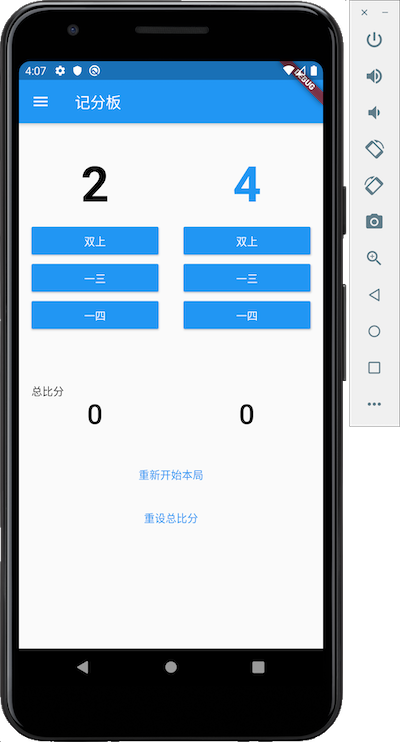
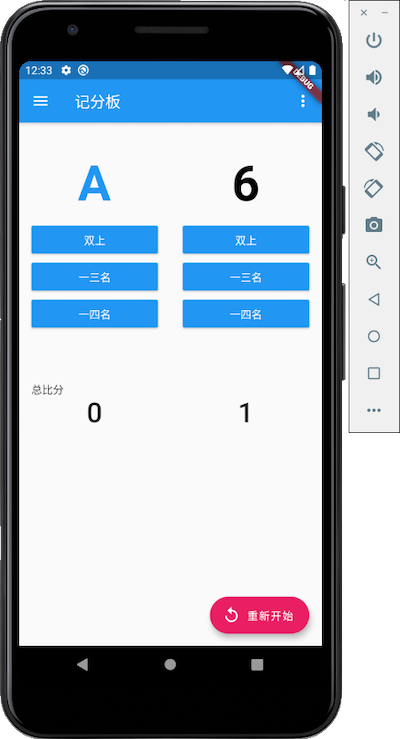
refine UI

diff --git a/lib/scoreboard_page.dart b/lib/scoreboard_page.dart
@@ -20,6 +20,10 @@ class _ScoreboardState extends State<ScoreboardPage> {
   final GlobalKey<_ScoreboardViewState> _rightScoreboardState =
       GlobalKey<_ScoreboardViewState>();
 
+  static const String _newGameButtonTitle = '新开局';
+  static const String _restartGameButtonTitle = '重新开始';
+  static const String _resetGameButtonTitle = '重设总比分';
+
   void updateScore() {
     setState(() {
       _leftScore = GDGame().getTotalScore(GameSide.left);
@@ -57,7 +61,7 @@ class _ScoreboardState extends State<ScoreboardPage> {
               ),
               FlatButton(
                 child: Text(actionTitle),
-                textColor: Colors.red,
+                textColor: Theme.of(context).errorColor,
                 onPressed: () {
                   action();
                   Navigator.of(context).pop();
@@ -68,105 +72,164 @@ class _ScoreboardState extends State<ScoreboardPage> {
         });
   }
 
+  void showActionSheet({context: BuildContext}) {
+    showModalBottomSheet(
+        context: context,
+        builder: (BuildContext context) {
+          return BottomSheet(
+            enableDrag: true,
+            onClosing: () {},
+            builder: (context) => ListView(
+              children: <Widget>[
+                ListTile(
+                  title: Text(_newGameButtonTitle),
+                  leading: Icon(Icons.play_arrow),
+                  enabled: _hasWinner,
+                  onTap: () {
+                    Navigator.of(context).pop();
+                    _newGame();
+                  },
+                ),
+                ListTile(
+                  title: Text(_restartGameButtonTitle),
+                  leading: Icon(Icons.replay),
+                  enabled: !_hasWinner,
+                  onTap: () {
+                    Navigator.of(context).pop();
+                    _restartThisGame();
+                  },
+                ),
+                ListTile(
+                  title: Text(
+                    _resetGameButtonTitle,
+                    style: TextStyle(color: Theme.of(context).errorColor),
+                  ),
+                  leading:
+                      Icon(Icons.restore, color: Theme.of(context).errorColor),
+                  onTap: () {
+                    Navigator.of(context).pop();
+                    showActionAlert(
+                        context: context,
+                        title: '重设总比分',
+                        content: '确定要重设总比分？',
+                        actionTitle: '确定',
+                        action: () {
+                          GDGame().reset();
+                          updateScore();
+                        });
+                  },
+                ),
+                ListTile(
+                  title: Text('取消'),
+                  leading: Icon(Icons.close),
+                  onTap: () => Navigator.of(context).pop(),
+                ),
+              ],
+            ),
+          );
+        });
+  }
+
+  void _restartThisGame() {
+    showActionAlert(
+        context: context,
+        title: _restartGameButtonTitle,
+        content: '确定要重新开始本局？',
+        actionTitle: '确定',
+        action: () {
+          GDGame().newGame();
+          updateScore();
+        });
+  }
+
+  void _newGame() {
+    GDGame().newGame();
+    updateScore();
+  }
+
+  Widget _buildFAB() {
+    var newGameTitle = _hasWinner ? _newGameButtonTitle : _restartGameButtonTitle;
+    var fabIcon = _hasWinner ? Icons.play_arrow : Icons.replay;
+
+    return FloatingActionButton.extended(
+      onPressed: () {
+        if (_hasWinner) {
+          _newGame();
+        } else {
+          _restartThisGame();
+        }
+      },
+      label: Text(newGameTitle),
+      icon: Icon(fabIcon),
+      backgroundColor: Theme.of(context).accentColor,
+    );
+  }
+
   @override
   Widget build(BuildContext context) {
-    var newGameTitle = _hasWinner ? '新开一局' : '重新开始本局';
-    var themeData = Theme.of(context);
-
     return Scaffold(
       appBar: AppBar(
         title: Text('记分板'),
-      ),
-      drawer: AppDrawer(),
-      body: Column(
-        crossAxisAlignment: CrossAxisAlignment.stretch,
-        children: <Widget>[
-          Row(
-            mainAxisAlignment: MainAxisAlignment.spaceAround,
-            children: <Widget>[
-              Expanded(
-                flex: 5,
-                child: ScoreboardView(
-                    key: _leftScoreboardState,
-                    side: GameSide.left,
-                    parent: this),
-              ),
-              Expanded(
-                flex: 5,
-                child: ScoreboardView(
-                    key: _rightScoreboardState,
-                    side: GameSide.right,
-                    parent: this),
-              ),
-            ],
-          ),
-          SizedBox(height: 32),
-          Padding(
-            padding: EdgeInsets.symmetric(horizontal: 16.0),
-            child: Text('总比分'),
-          ),
-          Row(
-            mainAxisAlignment: MainAxisAlignment.spaceAround,
-            children: <Widget>[
-              Text(
-                _leftScore,
-                style: TextStyle(
-                  fontSize: 36.0,
-                  fontWeight: FontWeight.w600,
-                ),
-              ),
-              Text(
-                _rightScore,
-                style: TextStyle(
-                  fontSize: 36.0,
-                  fontWeight: FontWeight.w600,
-                ),
-              ),
-            ],
-          ),
-          SizedBox(height: 24.0),
-          Padding(
-            padding: EdgeInsets.symmetric(horizontal: 16.0, vertical: 8.0),
-            child: FlatButton(
-              child: Text(newGameTitle),
-              textColor: themeData.primaryColor,
-              onPressed: () {
-                if (_hasWinner) {
-                  GDGame().newGame();
-                  updateScore();
-                } else {
-                  showActionAlert(
-                      context: context,
-                      title: newGameTitle,
-                      content: '确定要$newGameTitle？',
-                      actionTitle: '确定',
-                      action: () {
-                        GDGame().newGame();
-                        updateScore();
-                      });
-                }
-              },
-            ),
-          ),
-          Padding(
-            padding: EdgeInsets.symmetric(horizontal: 16.0),
-            child: FlatButton(
-              child: Text('重设总比分'),
-              textColor: themeData.errorColor,
-              onPressed: () {
-                showActionAlert(
-                    context: context,
-                    title: '重设总比分',
-                    content: '确定要重设总比分？',
-                    actionTitle: '确定',
-                    action: () {
-                      GDGame().reset();
-                      updateScore();
-                    });
-              },
-            ),
+        actions: <Widget>[
+          IconButton(
+            icon: Icon(Icons.more_vert),
+            onPressed: () {
+              showActionSheet(context: context);
+            },
           ),
         ],
+      ),
+      drawer: AppDrawer(),
+      floatingActionButton: _buildFAB(),
+      body: SingleChildScrollView(
+        child: Column(
+          crossAxisAlignment: CrossAxisAlignment.stretch,
+          children: <Widget>[
+            Row(
+              mainAxisAlignment: MainAxisAlignment.spaceAround,
+              children: <Widget>[
+                Expanded(
+                  flex: 5,
+                  child: ScoreboardView(
+                      key: _leftScoreboardState,
+                      side: GameSide.left,
+                      parent: this),
+                ),
+                Expanded(
+                  flex: 5,
+                  child: ScoreboardView(
+                      key: _rightScoreboardState,
+                      side: GameSide.right,
+                      parent: this),
+                ),
+              ],
+            ),
+            SizedBox(height: 32),
+            Padding(
+              padding: EdgeInsets.symmetric(horizontal: 16.0),
+              child: Text('总比分'),
+            ),
+            Row(
+              mainAxisAlignment: MainAxisAlignment.spaceAround,
+              children: <Widget>[
+                Text(
+                  _leftScore,
+                  style: TextStyle(
+                    fontSize: 36.0,
+                    fontWeight: FontWeight.w600,
+                  ),
+                ),
+                Text(
+                  _rightScore,
+                  style: TextStyle(
+                    fontSize: 36.0,
+                    fontWeight: FontWeight.w600,
+                  ),
+                ),
+              ],
+            ),
+          ],
+        ),
       ),
     );
   }
@@ -240,7 +303,7 @@ class _ScoreboardViewState extends State<ScoreboardView> {
             },
           ),
           RaisedButton(
-            child: Text('一三'),
+            child: Text('一三名'),
             textColor: Colors.white,
             color: Theme.of(context).primaryColor,
             onPressed: () {
@@ -248,7 +311,7 @@ class _ScoreboardViewState extends State<ScoreboardView> {
             },
           ),
           RaisedButton(
-            child: Text('一四'),
+            child: Text('一四名'),
             textColor: Colors.white,
             color: Theme.of(context).primaryColor,
             onPressed: () {

diff --git a/test/widget_test.dart b/test/widget_test.dart
@@ -11,20 +11,5 @@ import 'package:flutter_test/flutter_test.dart';
 import 'package:gdscore/main.dart';
 
 void main() {
-  testWidgets('Counter increments smoke test', (WidgetTester tester) async {
-    // Build our app and trigger a frame.
-    await tester.pumpWidget(App());
 
-    // Verify that our counter starts at 0.
-    expect(find.text('0'), findsOneWidget);
-    expect(find.text('1'), findsNothing);
-
-    // Tap the '+' icon and trigger a frame.
-    await tester.tap(find.byIcon(Icons.add));
-    await tester.pump();
-
-    // Verify that our counter has incremented.
-    expect(find.text('0'), findsNothing);
-    expect(find.text('1'), findsOneWidget);
-  });
 }

diff --git a/lib/main.dart b/lib/main.dart
@@ -21,6 +21,7 @@ class App extends StatelessWidget {
         // is not restarted.
         primaryColor: Colors.blue,
         errorColor: Colors.red,
+        accentColor: Colors.pink,
       ),
       home: ScoreboardPage(),
     );
